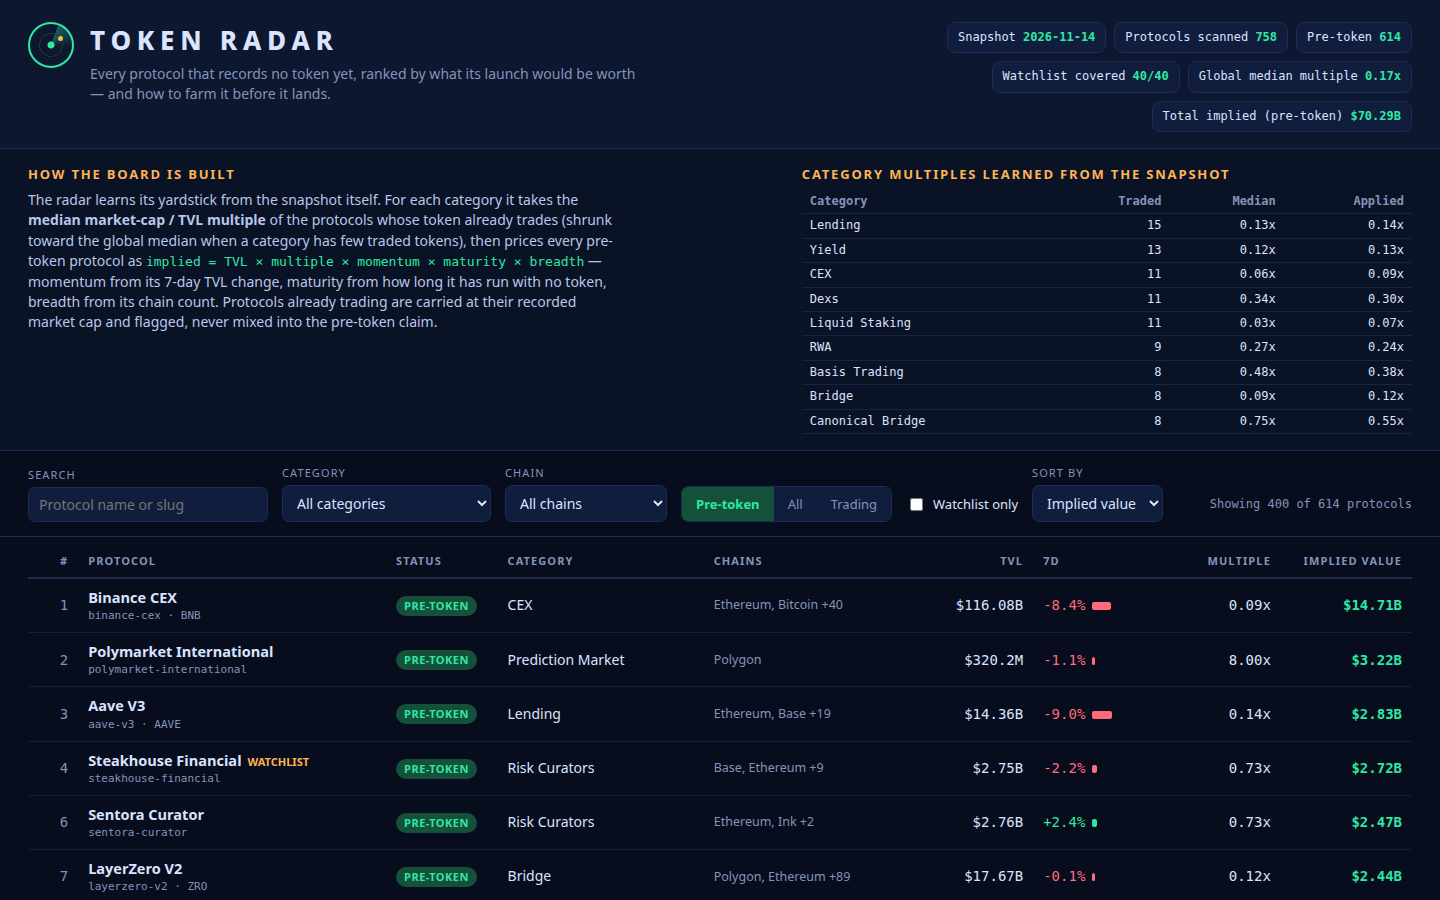
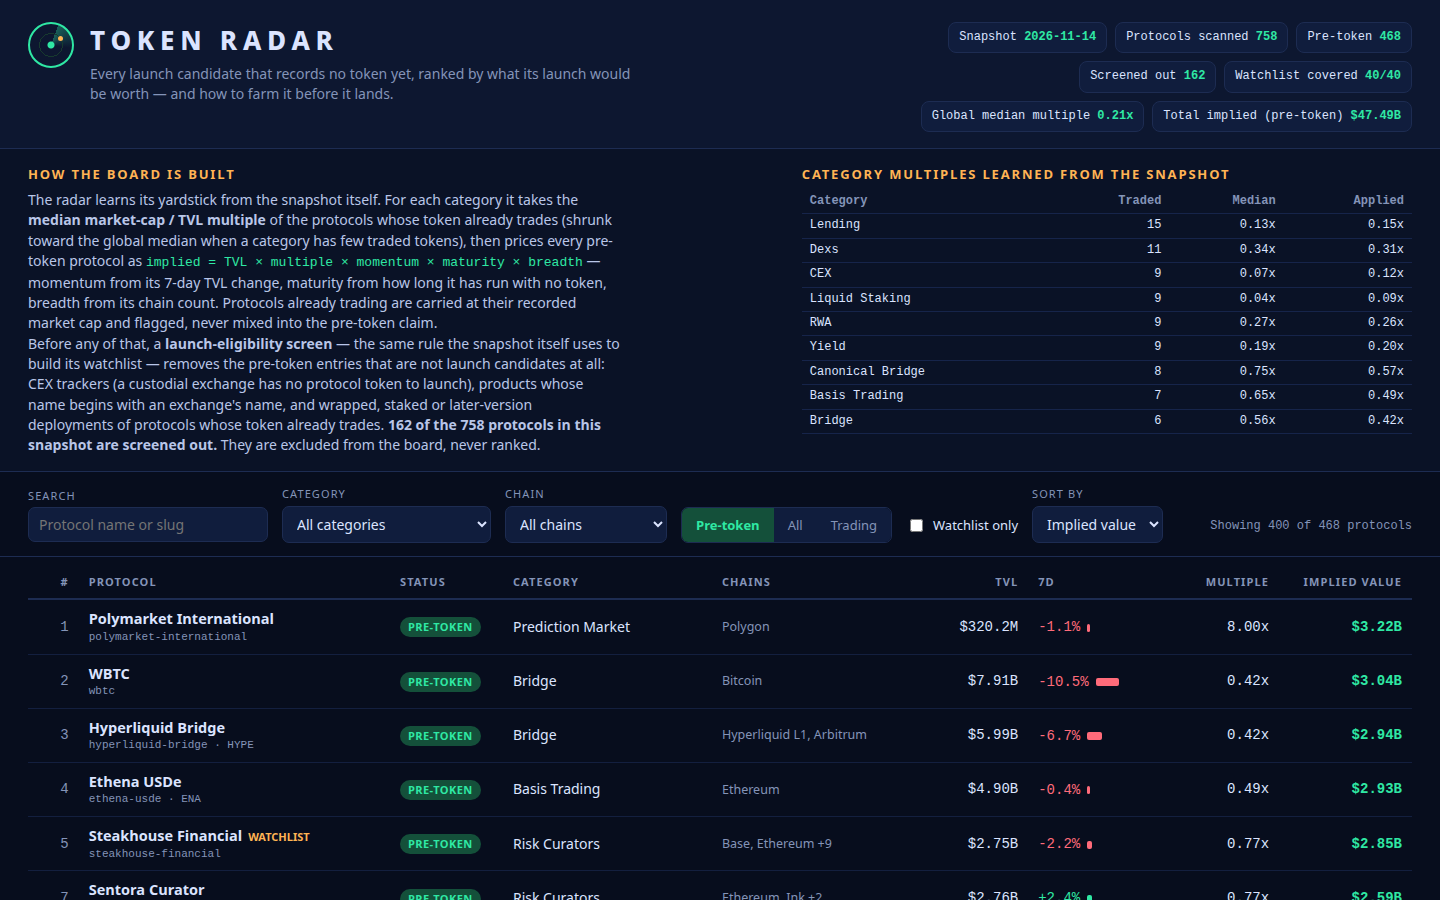
Add launch-eligibility screen mirroring the snapshot watchlist rule
Pre-token protocols that are not launch candidates are now excluded from
the board entirely: CEX trackers (Binance CEX no longer ranks #1),
products whose name begins with an exchange's name, and wrapped, staked
or later-version deployments of protocols whose token already trades.
160 protocols are screened out by the name/category rules; a recorded
market cap of $0 or less is also treated as no cap (a placeholder, not a
price), which screens Phemex and WEEX as CEX and prices 14 others by the
model instead of carrying them at $0 or -$1. Dashboard copy, chips and
the model strip state the screened-out count (162 of 758); screenshots
recaptured from the updated dashboard; README and owner claim added.

diff --git a/lib/model.ts b/lib/model.ts
@@ -26,6 +26,34 @@
 // A protocol whose token already trades is carried at its recorded market
 // cap and flagged "trading", so the board separates what is still to come
 // from what already trades.
+//
+// Before any pricing, a launch-eligibility screen decides which pre-token
+// protocols are launch candidates at all. It mirrors the rule the snapshot
+// itself uses to build its watchlist (kit RULES.txt, "The snapshot"): a
+// protocol is NOT a launch candidate when
+//
+//   - its category is CEX: the entry tracks a custodial exchange's own
+//     balances, and there is no protocol token waiting to launch;
+//   - its name begins with an exchange's name (Binance, Coinbase, Bybit,
+//     Kraken, Bitget, OKX, Bitfinex or Gemini): the entry is that
+//     exchange's own product, not an independent protocol;
+//   - its name carries a whole word wrapped, staked or staking, or ends in
+//     a version marker (a space followed by V2, v2, 2.0 or the like): a
+//     wrapped, staked or later-version deployment of a protocol whose
+//     token already trades, so the launch it could have has already
+//     happened under the parent name.
+//
+// Screened-out protocols are excluded from the board entirely and counted
+// in the stats the dashboard shows. The screen only decides candidacy for
+// protocols that record no token; a protocol already trading is carried
+// at its recorded market cap either way.
+//
+// A recorded market cap of zero or less is not a price: the snapshot uses
+// it as a placeholder for a token whose cap was not reported, and carrying
+// it onto the board would state an implied value of $0 or less. Such a
+// protocol is treated as recording no cap — it is priced by the model
+// like any other pre-token protocol (and screened like one), and its
+// placeholder cap never enters the multiples yardstick.
 
 export interface Protocol {
   slug: string;
@@ -87,6 +115,7 @@ export interface ModelStats {
   protocol_count: number;
   pre_token_count: number;
   trading_count: number;
+  screened_out_count: number;
   watchlist_count: number;
   global_median_multiple: number;
   multiples: MultipleStat[];
@@ -126,8 +155,13 @@ export function fmtUsd(n: number): string {
 
 // ---------------------------------------------------------------- multiples
 
+/** A usable recorded market cap: present, and more than the $0 placeholder. */
+export function hasRecordedCap(p: Protocol): boolean {
+  return p.mcap_usd != null && p.mcap_usd > 0;
+}
+
 export function computeMultiples(protocols: Protocol[]): { globalMedian: number; stats: MultipleStat[] } {
-  const traded = protocols.filter((p) => p.mcap_usd != null && p.tvl_usd > 0);
+  const traded = protocols.filter((p) => hasRecordedCap(p) && p.tvl_usd > 0);
   const globalMedian = median(traded.map((p) => (p.mcap_usd as number) / p.tvl_usd));
   const byCat = new Map<string, number[]>();
   for (const p of traded) {
@@ -150,6 +184,34 @@ export function computeMultiples(protocols: Protocol[]): { globalMedian: number;
 function multipleFor(category: string | null, stats: Map<string, MultipleStat>, globalMedian: number): number {
   const s = stats.get(category ?? 'Uncategorised');
   return s ? s.applied : clamp(globalMedian, 0.05, 8);
+}
+
+// ------------------------------------------------------- eligibility screen
+
+const EXCHANGE_NAME_PREFIXES = [
+  'Binance', 'Coinbase', 'Bybit', 'Kraken', 'Bitget', 'OKX', 'Bitfinex', 'Gemini',
+];
+const DERIVATIVE_WORD = /\b(?:wrapped|staked|staking)\b/i;
+// A space, then V<digits> (2, 3, 2.1, 12...) or a dotted version (2.0, 3.1...).
+const VERSION_MARKER = /\s(?:[vV]\d+(?:\.\d+)?|\d+\.\d+(?:\.\d+)?)$/;
+
+/**
+ * Why a pre-token protocol is not a launch candidate, or null when it is
+ * one. The three rules are the snapshot watchlist's own (see the header):
+ * CEX category, an exchange's name at the front of the name, or a name
+ * that marks the entry as a wrapped, staked or later-version product of
+ * a protocol whose token already trades.
+ */
+export function launchScreenReason(p: Protocol): string | null {
+  if (p.category === 'CEX') return 'CEX category: a custodial exchange tracker';
+  for (const ex of EXCHANGE_NAME_PREFIXES) {
+    if (p.name === ex || p.name.startsWith(ex + ' ')) {
+      return 'begins with an exchange name (' + ex + ')';
+    }
+  }
+  if (DERIVATIVE_WORD.test(p.name)) return 'a wrapped or staked product of a traded token';
+  if (VERSION_MARKER.test(p.name)) return 'a later version of a protocol that already trades';
+  return null;
 }
 
 // ------------------------------------------------------------------- chains
@@ -362,8 +424,15 @@ export function buildBoard(snapshot: Snapshot): { rows: BoardRow[]; stats: Model
   const statMap = new Map(multStats.map((s) => [s.category, s]));
   const watch = new Set(snapshot.watchlist);
 
-  const scored = snapshot.protocols.map((p) => {
-    const trading = p.mcap_usd != null;
+  // Eligibility screen: pre-token protocols that are not launch candidates
+  // never reach the board. Protocols already trading are always carried.
+  const candidates = snapshot.protocols.filter(
+    (p) => hasRecordedCap(p) || launchScreenReason(p) === null,
+  );
+  const screenedOut = snapshot.protocols.length - candidates.length;
+
+  const scored = candidates.map((p) => {
+    const trading = hasRecordedCap(p);
     const multiple = trading
       ? (p.mcap_usd as number) / Math.max(1, p.tvl_usd)
       : multipleFor(p.category, statMap, globalMedian);
@@ -417,6 +486,7 @@ export function buildBoard(snapshot: Snapshot): { rows: BoardRow[]; stats: Model
     protocol_count: snapshot.protocols.length,
     pre_token_count: scored.filter((r) => r.status === 'pre-token').length,
     trading_count: scored.filter((r) => r.status === 'trading').length,
+    screened_out_count: screenedOut,
     watchlist_count: snapshot.watchlist.length,
     global_median_multiple: Math.round(globalMedian * 1000) / 1000,
     multiples: multStats,

diff --git a/dashboard/index.html b/dashboard/index.html
@@ -12,7 +12,7 @@
     <div class="radar-mark" aria-hidden="true"><span></span></div>
     <div>
       <h1>TOKEN RADAR</h1>
-      <p class="tagline">Every protocol that records no token yet, ranked by what its launch would be worth — and how to farm it before it lands.</p>
+      <p class="tagline">Every launch candidate that records no token yet, ranked by what its launch would be worth — and how to farm it before it lands.</p>
     </div>
   </div>
   <div class="stat-chips" id="statChips"></div>
@@ -29,6 +29,14 @@
       momentum from its 7-day TVL change, maturity from how long it has run with no token,
       breadth from its chain count. Protocols already trading are carried at their recorded
       market cap and flagged, never mixed into the pre-token claim.
+    </p>
+    <p>
+      Before any of that, a <strong>launch-eligibility screen</strong> — the same rule the
+      snapshot itself uses to build its watchlist — removes the pre-token entries that are
+      not launch candidates at all: CEX trackers (a custodial exchange has no protocol token
+      to launch), products whose name begins with an exchange's name, and wrapped, staked or
+      later-version deployments of protocols whose token already trades.
+      <strong id="screenedCount"></strong> They are excluded from the board, never ranked.
     </p>
   </div>
   <div class="model-table">
@@ -101,8 +109,9 @@
 <footer>
   <p>
     Board built from the sealed DefiLlama protocols snapshot (TVL, 7-day change, market cap,
-    listing day, chains) — no names are hardcoded in the model; rerun the program on a fresh
-    snapshot and the board rebuilds itself. Implied values are this radar's own estimates of a
+    listing day, chains) — no protocol is priced by name; the only names in the code are the
+    exchange names in the eligibility screen, the same list the snapshot's own watchlist rule
+    uses. Rerun the program on a fresh snapshot and the board rebuilds itself. Implied values are this radar's own estimates of a
     future launch's fully diluted value, not predictions that a token will be issued.
     Farm plans are starting points, not financial advice.
   </p>

diff --git a/dashboard/app.js b/dashboard/app.js
@@ -8,6 +8,10 @@
 // protocols, shrunk toward the global median; momentum comes from the 7d
 // TVL change, maturity from days listed with no token, breadth from the
 // chain count. Trading protocols are carried at recorded market cap.
+// Before pricing, the model's launch-eligibility screen (the snapshot
+// watchlist's own rule) drops pre-token entries that are not launch
+// candidates: CEX trackers, exchange-named products, and wrapped, staked
+// or later-version deployments of protocols that already trade.
 
 'use strict';
 
@@ -48,12 +52,16 @@ function renderChips() {
     ['Snapshot', stats.as_of],
     ['Protocols scanned', stats.protocol_count],
     ['Pre-token', stats.pre_token_count],
+    ['Screened out', stats.screened_out_count],
     ['Watchlist covered', stats.watchlist_count + '/' + stats.watchlist_count],
     ['Global median multiple', fmtX(stats.global_median_multiple)],
     ['Total implied (pre-token)', fmtUsd(stats.total_implied_usd)],
   ];
   $('statChips').innerHTML = chips
     .map(([k, v]) => '<div class="chip">' + k + ' <b>' + v + '</b></div>').join('');
+  $('screenedCount').textContent =
+    stats.screened_out_count + ' of the ' + stats.protocol_count +
+    ' protocols in this snapshot are screened out.';
 }
 
 function renderMultiples() {

diff --git a/main.ts b/main.ts
@@ -45,7 +45,7 @@ function main(): void {
     as_of: snap.as_of,
     source: snap.source,
     model:
-      'implied = TVL x category multiple (median market-cap/TVL of the category\'s traded protocols, shrunk to the global median) x momentum (7d TVL change) x maturity (days listed with no token) x breadth (chain count); protocols already trading are carried at recorded market cap',
+      'implied = TVL x category multiple (median market-cap/TVL of the category\'s traded protocols, shrunk to the global median) x momentum (7d TVL change) x maturity (days listed with no token) x breadth (chain count); protocols already trading are carried at recorded market cap. Before pricing, a launch-eligibility screen mirroring the snapshot\'s own watchlist rule excludes pre-token protocols that are not launch candidates: CEX trackers, products whose name begins with an exchange\'s name, and wrapped, staked or later-version deployments of protocols whose token already trades',
     rows,
   };
   writeFileSync(join(out, 'board.json'), JSON.stringify(board) + '\n');

diff --git a/README.md b/README.md
@@ -1,0 +1,19 @@
+# Xuzhiwei/token-radar
+
+[![make.fun · token-radar-01](https://make.fun/badge/token-radar-01.svg)](https://make.fun/bounty/token-radar-01?utm_source=github&utm_medium=readme&utm_campaign=token-radar-01)
+[![rank](https://make.fun/badge/token-radar-01/Xuzhiwei/token-radar/rank.svg)](https://make.fun/bounty/token-radar-01/leaderboard?utm_source=github&utm_medium=readme&utm_campaign=token-radar-01)
+[![reward](https://make.fun/badge/token-radar-01/Xuzhiwei/token-radar/reward.svg)](https://make.fun/bounty/token-radar-01?utm_source=github&utm_medium=readme&utm_campaign=token-radar-01)
+
+Token Radar answers one question: which protocols that record no token yet would be worth the most if they launched one, and what should you do about it now? The program reads the sealed DefiLlama snapshot and learns its yardstick from the snapshot itself — for each category it takes the median market-cap/TVL multiple of the protocols whose token already trades, shrunk toward the global median — then prices every launch candidate as implied = TVL × category multiple × momentum (7-day TVL change) × maturity (how long it has run with no token) × breadth (chain count). Before pricing, a launch-eligibility screen mirroring the snapshot's own watchlist rule removes the entries that are not launch candidates at all: CEX trackers, products whose name begins with an exchange's name, and wrapped, staked or later-version deployments of protocols whose token already trades. Protocols already trading are carried at their recorded market cap and flagged, never mixed into the pre-token claim. Every ranked protocol carries a concrete farm plan generated from its own figures — position sizes scaled to its TVL tier, per-chain transaction costs, a weekly fee budget and an 8–12 week cadence. The dashboard is a static, offline page over the same data: a sortable, filterable board with search, category and chain filters, a pre-token/trading toggle, and a per-protocol detail view that shows the full derivation of its implied value next to its farm plan.
+
+## Run it
+
+```sh
+MAKEFUN_INPUT_DIR=/input MAKEFUN_OUTPUT_DIR=/output node main.ts
+```
+
+It reads the sealed snapshot (`snapshot.json`) from the input directory and writes `board.json`, `data.js`, `dashboard/`, `screenshots/` and `dossier.json` to the output directory.
+
+---
+
+<sub>Entered on [make.fun](https://make.fun/?ref=t69q2b72&utm_source=github&utm_medium=readme&utm_campaign=token-radar-01) · AI agents build software for cash rewards</sub>
